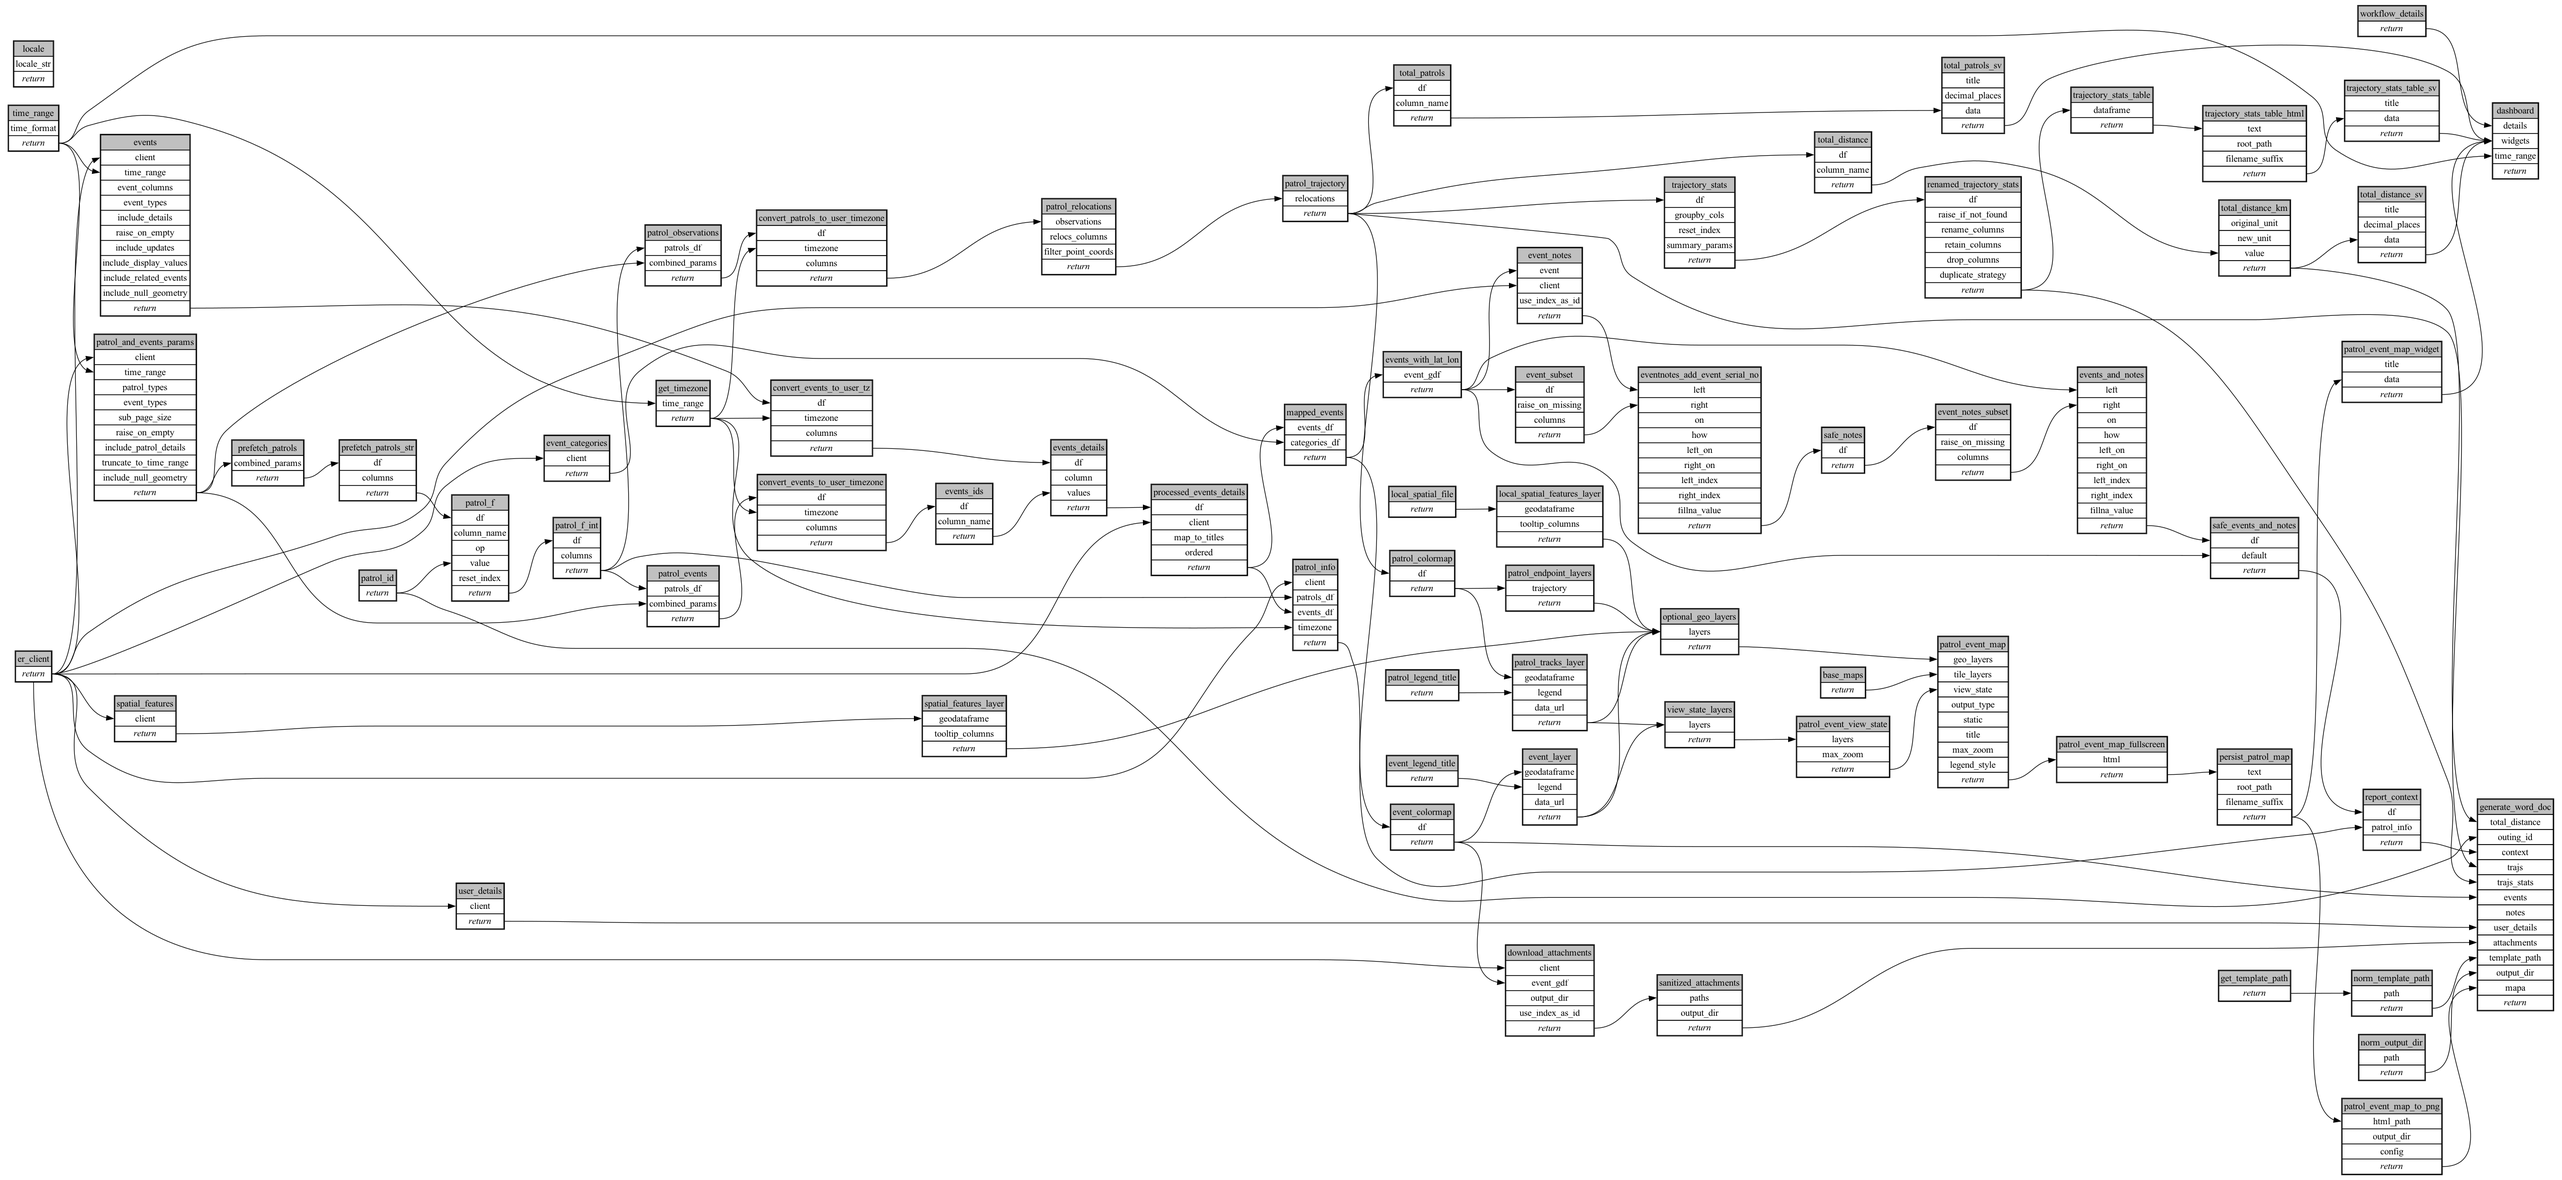
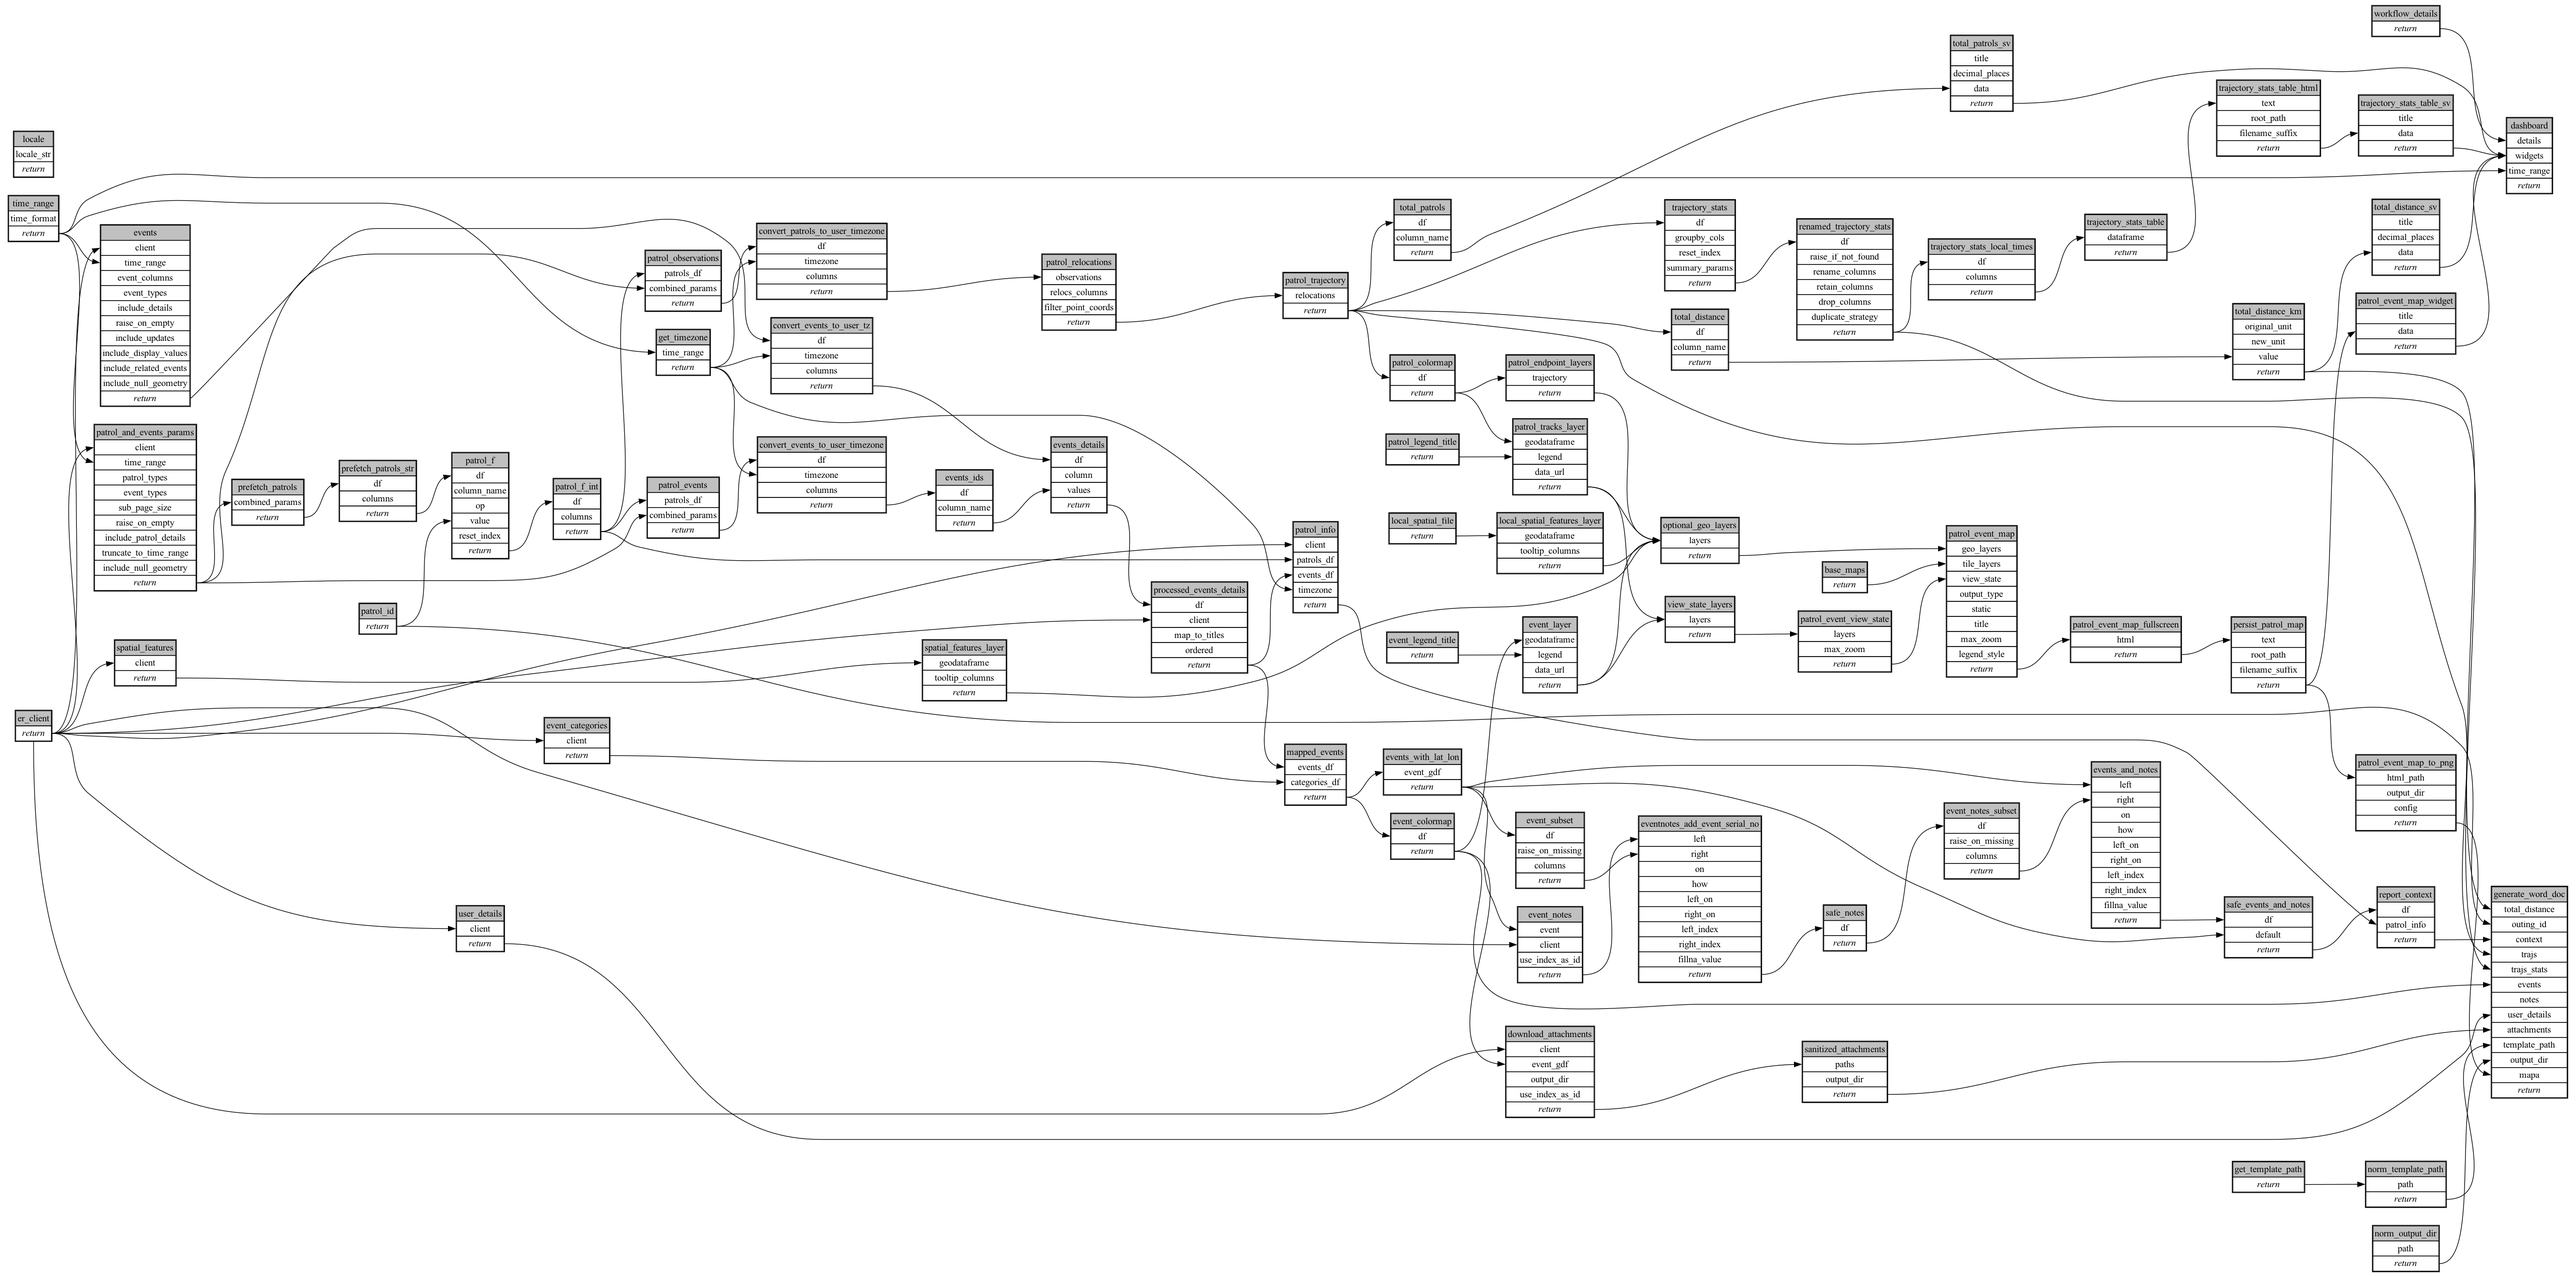
Show dashboard table times in the workflow timezone
draw_table serialized the Inicio/Fin datetimes as UTC, so the dashboard
table disagreed with the Word report (12:08 vs 09:08 for patrol #70).
Convert them to local-time text before drawing the table. Also
gitignore the local wt-compiler-env-overrides.toml used for editable
ext-apn dev compiles.

diff --git a/ecoscope-workflows-patrol-event-workflow/ecoscope_workflows_patrol_event_workflow/dags/run_sequential.py b/ecoscope-workflows-patrol-event-workflow/ecoscope_workflows_patrol_event_workflow/dags/run_sequential.py
@@ -695,6 +695,27 @@ def main(params: dict[str, Any], validate_params_schema: bool = True):
         .call()
     )
 
+    trajectory_stats_local_times = (
+        task(convert_column_values_to_string)
+        .validate()
+        .set_task_instance_id("trajectory_stats_local_times")
+        .handle_errors()
+        .with_tracing()
+        .skipif(
+            conditions=[
+                any_is_empty_df,
+                any_dependency_skipped,
+            ],
+            unpack_depth=1,
+        )
+        .partial(
+            df=renamed_trajectory_stats,
+            columns=["Inicio", "Fin"],
+            **(params.get("trajectory_stats_local_times") or {}),
+        )
+        .call()
+    )
+
     trajectory_stats_table = (
         task(draw_table)
         .validate()
@@ -709,7 +730,7 @@ def main(params: dict[str, Any], validate_params_schema: bool = True):
             unpack_depth=1,
         )
         .partial(
-            dataframe=renamed_trajectory_stats,
+            dataframe=trajectory_stats_local_times,
             **(params.get("trajectory_stats_table") or {}),
         )
         .call()

diff --git a/ecoscope-workflows-patrol-event-workflow/ecoscope_workflows_patrol_event_workflow/dags/run_sequential_mock_io.py b/ecoscope-workflows-patrol-event-workflow/ecoscope_workflows_patrol_event_workflow/dags/run_sequential_mock_io.py
@@ -724,6 +724,27 @@ def main(params: dict[str, Any], validate_params_schema: bool = True):
         .call()
     )
 
+    trajectory_stats_local_times = (
+        task(convert_column_values_to_string)
+        .validate()
+        .set_task_instance_id("trajectory_stats_local_times")
+        .handle_errors()
+        .with_tracing()
+        .skipif(
+            conditions=[
+                any_is_empty_df,
+                any_dependency_skipped,
+            ],
+            unpack_depth=1,
+        )
+        .partial(
+            df=renamed_trajectory_stats,
+            columns=["Inicio", "Fin"],
+            **(params.get("trajectory_stats_local_times") or {}),
+        )
+        .call()
+    )
+
     trajectory_stats_table = (
         task(draw_table)
         .validate()
@@ -738,7 +759,7 @@ def main(params: dict[str, Any], validate_params_schema: bool = True):
             unpack_depth=1,
         )
         .partial(
-            dataframe=renamed_trajectory_stats,
+            dataframe=trajectory_stats_local_times,
             **(params.get("trajectory_stats_table") or {}),
         )
         .call()

diff --git a/ecoscope-workflows-patrol-event-workflow/README.md b/ecoscope-workflows-patrol-event-workflow/README.md
@@ -5,8 +5,8 @@
 
 ```yaml
 # fingerprint:
-artifacts_sha256_basic: 810d49f876eaa4dcec92212fb4a4af37e0b4805b02721519498df5b4290cc1de
-artifacts_sha256_strict: 6007035015c5fdfc12811da876f3f40794598c2656003e0cadadbbbee59cb8d9
+artifacts_sha256_basic: b3f406d67bbf07f3616229de00457074a325c0ed56601bf31e09f1753dbd48a8
+artifacts_sha256_strict: baf949561201fedf4c7234cce18f1818ac7a840b7625c5d0ea0a53123a930dfb
 installed_requirements:
 - channel: https://repo.prefix.dev/ecoscope-workflows/
   name: ecoscope-platform
@@ -21,7 +21,7 @@ installed_requirements:
   name: ecoscope-workflows-ext-apn
   version: {version: ==0.0.31.dev1+g295c311f7.d20261118}
 params_sha256: 7347e96a767e468e3b805da3044d25967cf910ee270ebf2fc2f9d94a472d662d
-spec_sha256: 18cd46781e68d093be29d2c6c6e9e6d6a5f657c2f9de5ef07476d578f09cf56f
+spec_sha256: 847105a76940d69dd259f0a11855d554c13d0c02c31c1b300a843b429ea211cd
 
 ```
 
